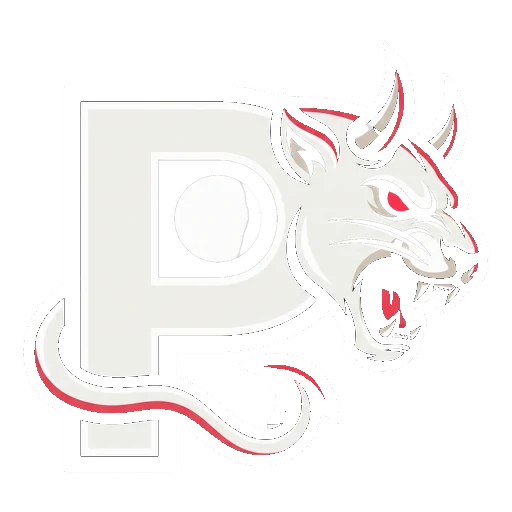
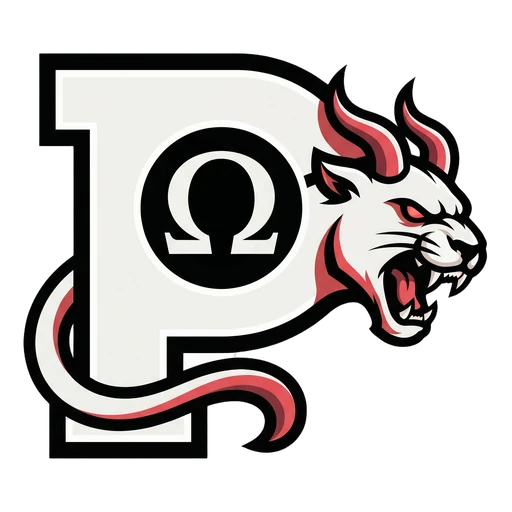
feat(guild): Ohm/Omega monogram carved into the demon-P counter
The P bowl kept rendering an irregular white negative-space shape that read as a
glitch. Per the user, turned it into an intentional design element: a clean
Ohm/Omega (Ohm sign Omega) monogram seated inside the P counter as a negative-
space seal, generated as one cohesive piece so it blends naturally into the P.

- paradox-emblem.webp: regenerated demon-P with the Omega designed into the counter;
  bright off-white body, ember-red accents, demon (eye/mouth/horns/tail) intact.
  Verified by understand_images: 'clean, intentional Omega monogram ... SHIP'.
- paradox-lockup.webp: rebuilt from the new emblem.
- asset-alpha-lint.py: added GLYPH_ALLOW for assets that intentionally carry a dark
  interior monogram — skips the embedded-island check and tolerates the one badge,
  while still enforcing corners + multiple-fill detection. A genuinely dirty asset
  (non-allowlisted, or 2+ stray fills) still fails.
- PROJECT_STATE.md: documented the Omega-in-P decision + the GLYPH_ALLOW rationale.

preship all gates clean.

Changed region(s): [[0.0312, 0.0938, 0.9688, 0.9062]]

diff --git a/tools/asset-alpha-lint.py b/tools/asset-alpha-lint.py
@@ -29,6 +29,11 @@ R_MARGIN = 24      # skip a border margin when scanning for embedded islands (ri
 # Assets that are intentionally full-bleed / opaque — skip the corner check for these.
 OPAQUE_ALLOW = {"banner.webp", "guildhall.webp", "hero-prontera.webp", "paradox-seam.webp"}
 
+# Assets that intentionally carry a dark glyph/monogram INSIDE a letter (a designed seal,
+# not an artifact). Skip the embedded-island check for these; corners + counter-fill checks
+# still apply. paradox-emblem has an Ohm/Omega (Ω) monogram carved into the P counter.
+GLYPH_ALLOW = {"paradox-emblem.webp", "paradox-lockup.webp"}
+
 
 def lum(r, g, b):
     return 0.2126 * r + 0.7152 * g + 0.0722 * b
@@ -123,23 +128,30 @@ def scan(path):
         return bright >= 15  # almost fully ringed by bright/transparent
 
     island_px = 0
-    step = 3 if total <= 600 * 600 else 5
-    for y in range(R_MARGIN, h - R_MARGIN, step):
-        for x in range(R_MARGIN, w - R_MARGIN, step):
-            p = px[x, y]
-            if p[3] > 40 and lum_p(p) <= DARK and embedded(x, y):
-                island_px += step * step
+    if name not in GLYPH_ALLOW:  # assets with an intentional interior monogram skip this
+        step = 3 if total <= 600 * 600 else 5
+        for y in range(R_MARGIN, h - R_MARGIN, step):
+            for x in range(R_MARGIN, w - R_MARGIN, step):
+                p = px[x, y]
+                if p[3] > 40 and lum_p(p) <= DARK and embedded(x, y):
+                    island_px += step * step
     embedded_island = island_px >= 300  # a meaningful dark patch inside a letter
 
     # Decision: flag if a flat-fill block, an embedded island, or 2+ enclosed holes.
     # A single organic cavity (one demon mouth) is allowed.
-    if suspicious_fills or embedded_island or holes >= 2:
-        if embedded_island:
+    # GLYPH_ALLOW assets carry an intentional interior monogram (a dark badge/seal): allow
+    # ONE flat fill and skip the embedded-island check, but still catch corners / 2+ fills.
+    fill_limit = 1 if name in GLYPH_ALLOW else 0
+    hole_limit = 2 if name in GLYPH_ALLOW else 1  # glyph asset: mouth + monogram badge ok
+    flag_fill = suspicious_fills > fill_limit
+    flag_island = embedded_island and name not in GLYPH_ALLOW
+    if flag_fill or flag_island or holes > hole_limit:
+        if flag_island:
             kind = f"dark island embedded inside the letter (~{island_px}px)"
-        elif suspicious_fills:
+        elif flag_fill:
             kind = f"{suspicious_fills} flat counter-fill block(s)"
         else:
-            kind = f"{holes} enclosed dark holes"
+            kind = f"{holes} enclosed dark holes (limit {hole_limit})"
         issues.append(f"{kind} — likely unremoved counter fill "
                       f"(run: python3 tools/emblem-clean.py SRC {name})")
     return issues

diff --git a/PROJECT_STATE.md b/PROJECT_STATE.md
@@ -38,8 +38,12 @@ Creed → Roster → Hall → Lounge → Join. **No "BrightInside" anywhere** (r
 
 ## Decisions + rationale (the part git can't tell you)
 - Emblem = **MiniDemon demon-P** (the letter P forged into a horned demon: snarl + curling
-  tail), stark B&W. `assets/paradox-emblem.webp` (transparent) + `paradox-lockup.webp`
-  (emblem over PARADOX wordmark). Reflects leader Poj = MiniDemon. Don't revert to old orb.
+  tail), off-white + ember-red accents. An **Ohm/Omega (Ω) monogram is carved into the P
+  counter** as an intentional negative-space seal (the bowl kept rendering an irregular
+  white shape, so we turned it into a deliberate glyph). `assets/paradox-emblem.webp`
+  (transparent) + `paradox-lockup.webp` (emblem over PARADOX wordmark). Because the Ω is a
+  deliberate dark interior glyph, both assets are in `asset-alpha-lint.py` GLYPH_ALLOW
+  (skip embedded-island, tolerate the one monogram badge). Don't revert to old orb.
 - Brand = **one paradox, two truths**: "Ruthless on the boss. Family in the hall." Visual
   spine: near-black + ONE ember-red accent (`--ember #e0566a`); condensed display fonts
   (Barlow Condensed headings, Rajdhani tech labels) for esports feel.
